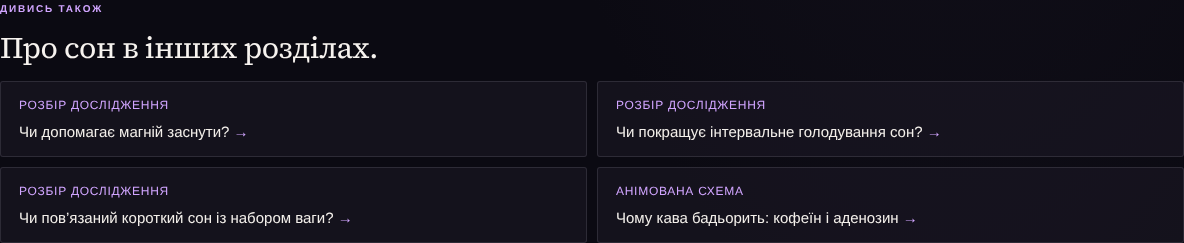
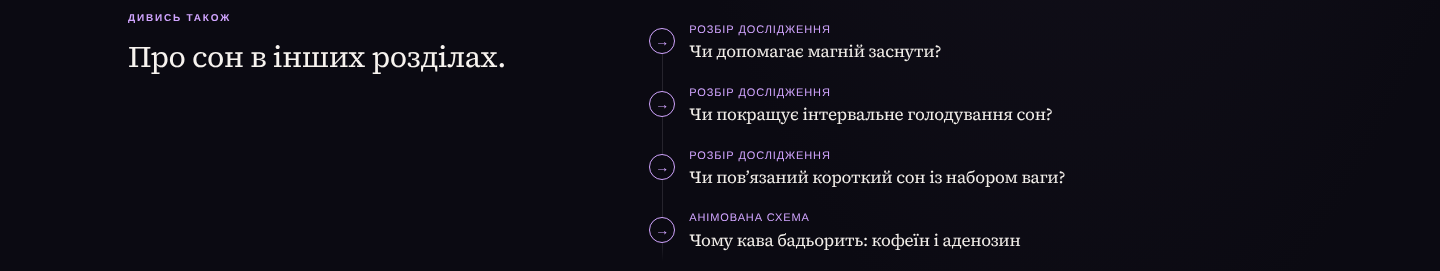
Документи: торкання схеми, «Дивись також» як рейка, виміри, знімки
docs/SLEEP-MOVEMENT-MODULES.md: що робить торкання рядка, чому схема сама не фокусується, нова оцінка
шаблонності й функціональності (схема й «Дивись також»), виміри після змін. CLAUDE.md: рядки схеми
натискні. Знімки: торкання N3 на телефоні, рейка «Дивись також» на телефоні й комп’ютері.

Claude-Session: https://claude.ai/code/session_01J29vQU3hAFNqfd2NxjB8zo

diff --git a/docs/SLEEP-MOVEMENT-MODULES.md b/docs/SLEEP-MOVEMENT-MODULES.md
@@ -39,14 +39,15 @@ Owner request: «Роби все що перечислив для правок»
 - Data and geometry: `src/sleep/night.mjs` (pure, no DOM; five cycles, 60 slots, 24 segments). The build (`scripts/build-platform.mjs`) renders the static markup between `<!-- EUA_SLEEP_NIGHT_START -->` and `<!-- EUA_SLEEP_NIGHT_END -->` in `dist/sleep.html`, so without JavaScript the scheme is visible, only without motion. `dist/sleep-night.js` is a generated copy; `dist/sleep.js` imports it with a version.
 - Motion (`src/sleep/page.mjs`, `mountNight`): a cursor passes the night in 30 s; one button «Пауза / Відтворити» (≥ 44 px). It starts by itself only when at least 35 % of the scheme is on the screen, stands still when off the screen or in a background tab, never overrides a person's pause or a chosen stage, and under `prefers-reduced-motion` starts paused so that only a person can run it. The label «На схемі зараз: …» has `aria-live="off"`; the chart has one text description (`role="img"` + `aria-label`).
 - Stage buttons answer to the scheme: choosing N1/N2/N3/REM pauses the cursor on the first bar of that stage, lights all bars of the stage and dims the rest; «Відтворити» removes the highlight. The first selection on load does not move the scheme.
+- **The rows are tappable (owner decision «3 так», 2026-11-09).** A tap on a row N1/N2/N3/REM (its label or the empty place of the row) acts as the stage button: the night pauses, the cursor stands on the first bar of the stage, the stage button is pressed and its explanation shows. A tap on a bar of that stage puts the cursor exactly there. The wake row has no explanation and does not react. The row is found from the height of the tap against the field of bars (five equal rows), so one listener covers labels, bars and gaps. A hand cursor and a hover highlight show it; the idle hint now reads «Обери рядок схеми чи кнопку стадії.». It is a quick pick beside the stage buttons (≥ 75 px), the same action: the scheme itself takes no focus and stays one image for a screen reader, the stage buttons are the keyboard way. Rows are 32 px on a phone (34–38 px wider), a shortcut, not the only control.
 - Colours: N1/N2/N3 are three steps of one hue (deeper = more saturated; opacity .48/.74/1), REM is cyan `#3cc8d8`, wake is the neutral label colour. Checked with the `dataviz` validator rules in both site palettes against the scheme background (cosmic `#1d1827`, green `#152a25`), for every pair of stages that stand next to each other in time. Categories (wake–N1, wake–N2, N2–REM, REM–N1): normal-vision ΔE ≥ 15 (measured 16.3–29.2), protan/deutan ΔE ≥ 8 (11.0–28.6). Neighbouring steps of the ramp (N1–N2, N2–N3): `validateOrdinal` passes (lightness steps ≥ 0.06, one hue), ΔE 13.5–14.3 (CVD 12.7–13.9). Every bar against the background ≥ 3:1 (WCAG 1.4.11: N1 3.0, N2 5.3, N3 8.5–8.7, REM 7.5–8.6, wake 8.9–9.1), label text ≥ 4.5. The first version failed this: wake at 55 % opacity was ΔE ≈ 10 from N1/N2, and N1 at 38 % opacity had contrast 2.4 (< 3), found by the accessibility review; both were raised. **Known deviation:** REM (L ≈ 0.77, as high as the top of the ramp, N3 0.79–0.82) is above the categorical lightness band (L ≤ 0.67 on dark); a darker cyan cannot keep ΔE ≥ 15 from N2 (search over L .62–.67 and 85 hues: best 14.7 / 7.9). It is one accent beside an ordinal ramp, not a categorical palette. The same maths runs in Browser QA on the real computed colours (`sleepNightFlow`).
 - Bars are 10–24 px tall, 4 px rounded; a bar starts where its segment starts (the QA flow compares the pixels with the data).
 
-**«Дивись також» (36).** One section after the habits, before the sources: four links to existing material, no new science text. Link text is copied word for word from the destination (three research-breakdown questions: magnesium, intermittent fasting, short sleep and weight; one animated scheme: «Чому кава бадьорить: кофеїн і аденозин»). `tests/sleep-related.test.mjs` compares each title with `dist/research-data.js` and `dist/mechanisms.html`, so a renamed breakdown cannot leave a stale link. Research links use the same `research.html#<id>` form as other pages (static anchor without JavaScript, the card is opened by `research-page.js`).
+**«Дивись також» (36, redrawn after «5 так»).** One section after the habits, before the sources: four links to existing material, no new science text. They are a rail like the habits (round arrow nodes joined by a hairline, serif titles, a small-caps label of the kind); on a computer the heading stands left and the rail right, on a phone one column; the arrow is decorative (empty text alternative) and the whole row is the link (≥ 62 px). The first version was a 2 × 2 grid of generic cards. Link text is copied word for word from the destination (three research-breakdown questions: magnesium, intermittent fasting, short sleep and weight; one animated scheme: «Чому кава бадьорить: кофеїн і аденозин»). `tests/sleep-related.test.mjs` compares each title with `dist/research-data.js` and `dist/mechanisms.html`, so a renamed breakdown cannot leave a stale link. Research links use the same `research.html#<id>` form as other pages (static anchor without JavaScript, the card is opened by `research-page.js`).
 
 **Small fixes (34).** The heading «Результат залежить від того, що саме вимірюють» lost its space on phones (`<br>` is hidden at ≤ 600 px; the space is now before the `<br>`, and a test forbids «,<br>» in headings). The three tiny links under the title (21 px tall: «Джерела й межі висновків», «Словник», «Про матеріал») are one 44 px button «Джерела й межі ↓» to the closing service block: the sources section is followed directly by «Про матеріал» with the glossary and the editorial rules, and the glossary still opens from the dotted terms in the text. This is a consolidation (one control for one action), not a removal of material; if separate hero links are wanted back, it is an owner decision. On computers the three wide chapter tiles became compact pills.
 
-**Phone density (37), measured.** Only spacing changes (the same texts and font sizes; a test forbids `font-size` in that block): section gaps 50 → 38 px, line height 1.9 → 1.7 in the evidence, basics and habit cards, tighter card padding, the related block as a 2 × 2 grid with a smaller heading, the scheme's pause button on the same row as its label. Page height measured in Chromium with the `<details>` collapsed:
+**Phone density (37), measured.** Only spacing changes (the same texts and font sizes; a test forbids `font-size` in that block): section gaps 50 → 38 px, line height 1.9 → 1.7 in the evidence, basics and habit cards, tighter card padding, the related block with a smaller heading (later redrawn as a rail), the scheme's pause button on the same row as its label. Page height measured in Chromium with the `<details>` collapsed:
 
 | Width | Before (main) | After | Of which the two new blocks |
 |---|---|---|---|
@@ -68,12 +69,14 @@ So the phone page is now 0.2 screen longer than before the upgrade, which is the
 
 | Element | Templateness | Functionality | Verdict |
 |---|---|---|---|
-| Night scheme | low: own drawing grown from the page's data, motion and cursor, the language of lines and bars | high: pause, a chosen stage stops it, keyboard, stills off screen and with reduced motion. Weak spot: the rows are not tappable (the text says «Обери стадію», the buttons are below the scheme) | keep; making the rows tappable is a pending owner decision |
+| Night scheme | low: own drawing grown from the page's data, motion and cursor, the language of lines and bars | high: pause, a chosen stage stops it, the rows are tappable (the text «Обери стадію» now works on the drawing too), keyboard through the stage buttons, stills off screen and with reduced motion | done after «3 так» |
 | Habit rows on a phone | was high (stock accordion with «＋»), now medium-low: the rail echoes the scheme | high on a phone (−0.4 screen), everything open on a computer; cost: up to four taps to read all four habits | rail built in this change |
-| «Дивись також» tiles | high: the generic «label + title + arrow» card grid | medium: plain navigation to existing material | pending owner decision (a rail-style list is possible) |
+| «Дивись також» | was high (generic «label + title + arrow» card grid), now medium-low: the rail again, serif titles, nodes | medium: plain navigation to existing material, rows ≥ 62 px | done after «5 так» |
 | Hero button «Джерела й межі ↓» | medium: an ordinary outlined button | high: one control instead of three tiny links | keep |
 
 Tests: `tests/sleep-habits.test.mjs` (markup and wording, fold/unfold, independent taps, breakpoint crossing both ways, no state left half open; each rule checked by breaking the code), Browser QA `sleepHabitsFlow` at 390, 360 and 1440 (row sizes, hidden texts, tap and keyboard, print, resizing both ways without a reload, chapter link, no JavaScript, no errors). Screenshots: `docs/screenshots/sleep-upgrade/habits-*.png`.
+
+**After «3 так» and «5 так» (tappable rows, related rail).** Page height in Chromium: 390 px 6223 → 6300 px (7.5 screens), 360 px 6364 → 6421 px, 1440 px 4862 → 4871 px. On a phone the page grew by about 77 px: the rail takes more height than the 2 × 2 tiles (57 px, three of four serif titles wrap to two lines) and the scheme rows were made 32 px for tapping (20 px). Screenshots: `docs/screenshots/sleep-upgrade/scheme-m390-tap-n3.png`, `after-*-related.png`. Tests: `tests/sleep-night-mount.test.mjs` (a tap acts as the stage button, every row picks its own stage, the wake row and taps outside the bars do nothing, a tap on a bar puts the cursor there, a collapsed scheme ignores taps; each rule was checked by breaking the code), `tests/sleep-related.test.mjs` (the rail CSS contract and the journal records); Browser QA `sleepNightFlow` taps the real rows and bars with the mouse and checks the node and hairline of the rail (288 checks at three widths; deliberate breakages are caught).
 
 **Accessibility review (WCAG 2.1 AA, `design:accessibility-review`, run in Chromium).** Found and fixed: the N1 bars had contrast 2.4:1 (< 3:1, SC 1.4.11), so the ramp became .48/.74/1 and the REM colour was re-tuned (see colours above); the decorative arrow of a related link was read as part of the link name, now it has an empty text alternative (`content: '…' / ''`, with a plain fallback). Checked and fine: a pause control for the moving cursor (SC 2.2.2) that is the first stop of the scheme, the scheme starts paused under `prefers-reduced-motion` and stands still off the screen; every control shows a 2 px focus ring and the tab order is hero button → chapters → term links → play/pause → stage buttons → … → related links; the scheme is a `figure` named by its caption with one `img` description, the moving label is `aria-live="off"`, the button's name changes between «Пауза» and «Відтворити»; no overflow at 320 px, nor at the site's larger text sizes (the site scales them with `zoom`); tap targets ≥ 44 px. Not tested: a real screen reader (VoiceOver, TalkBack, NVDA).
 

diff --git a/CLAUDE.md b/CLAUDE.md
@@ -52,7 +52,7 @@
 - Поле пошуку в героєві головної (T7, рішення D3): підказка «Знайти розбір або перевірити твердження» і текст порожнього результату беруться з одного місця (`SEARCH_PLACEHOLDER`, `EMPTY_RESULT_TEXT` у `src/platform/search.mjs`), кнопка зі словом «Знайти», без ознак чату. Пошук нічого не оцінює й не показує відповідей розборів, лише веде до сторінок; розбори шукаються окремою групою (рядки `study` з `dist/research-data.js` у `dist/platform-sections.js`). Рядок поля лишається 52 px: до 700 px довга підказка лягає на поле у два рядки (CSS), композиція героя не зсувається. Перевіряють `tests/claim-search.test.mjs` і `heroSearchFlow`, опис у `docs/HERO_SEARCH.md`.
 - Сторінка «Про проєкт» і спільне застереження (рішення власника «давай 1, 2, 3», 2026-11-03): `dist/about.html` має шість розділів з якорями `ab-*` і пише лише те, що можна перевірити за самим сайтом; імен, посад і кваліфікацій автора на ній немає, поки власник їх не надасть (нічого не вигадувати). Внизу кожної сторінки стоїть один рядок застереження «Матеріал освітній і не є персональною медичною рекомендацією.» з посиланням «Про проєкт»: текст лежить в одному місці, `src/platform/site-notice.mjs`, а збірка (`scripts/build-platform.mjs`) вставляє його в кожен `dist/*.html` перед кінцевими порожніми `<script>` (повторний запуск нічого не змінює; на нову сторінку застереження стане само). Стилі `dist/site-notice.css` без власних кольорів. Твердження сторінки прив’язані до коду тестом `tests/about-page.test.mjs`: коли на сайті з’явиться лічильник відвідувачів, форма Formspree, записаний науковий перегляд чи інша адреса хостингу, тест зупиняє збірку, доки не оновлено розділи «Приватність» і «Стан наукового перегляду». Опис і межі: `docs/ABOUT_AND_NOTICE.md`.
 - Жодних сторонніх запитів до явного кліку користувача. Жодної особистої пошти в коді.
-- Схема ночі на сторінці «Сон і відновлення» (рішення власника 34–37, 2026-11-09): дані й геометрія в `src/sleep/night.mjs` (чистий модуль без DOM), нерухому розмітку з нього вставляє збірка між позначками `EUA_SLEEP_NIGHT_START/END` у `dist/sleep.html`, а `dist/sleep-night.js` це згенерована копія (піднімати `?v=` в імпорті `sleep.js` у `scripts/build-platform.mjs`). Схема умовна: лише те, що вже сказано на сторінці за NIH/NHLBI (стадії чергуються, N3 зазвичай більше на початку ночі, REM ближче до ранку), без часів і чисел. Змінив дані чи кольори: збірка двічі, тести `sleep-night*` і QA `sleepNightFlow` перевіряють і дані, і різницю кольорів у двох палітрах. Правила кольору та вимір висоти: `docs/SLEEP-MOVEMENT-MODULES.md`.
+- Схема ночі на сторінці «Сон і відновлення» (рішення власника 34–37, 2026-11-09): дані й геометрія в `src/sleep/night.mjs` (чистий модуль без DOM), нерухому розмітку з нього вставляє збірка між позначками `EUA_SLEEP_NIGHT_START/END` у `dist/sleep.html`, а `dist/sleep-night.js` це згенерована копія (піднімати `?v=` в імпорті `sleep.js` у `scripts/build-platform.mjs`). Рядки N1…REM на схемі натискні (торкання = кнопка стадії, `show(id, at)` у `mountNight`; сама схема не фокусується, для клавіатури лишаються кнопки стадій). Схема умовна: лише те, що вже сказано на сторінці за NIH/NHLBI (стадії чергуються, N3 зазвичай більше на початку ночі, REM ближче до ранку), без часів і чисел. Змінив дані чи кольори: збірка двічі, тести `sleep-night*` і QA `sleepNightFlow` перевіряють і дані, і різницю кольорів у двох палітрах. Правила кольору та вимір висоти: `docs/SLEEP-MOVEMENT-MODULES.md`.
 - Картки звичок на сторінці «Сон» на телефоні (до 600 px) згортає JavaScript (`mountHabits` у `src/sleep/page.mjs`, рішення власника «1 так», 2026-11-09); вигляд «рейка» (вузли-кружки з номером із лічильника CSS, лінія між ними, шеврон), а не стандартний акордеон з плюсами (вимога про шаблонність): розмітка статична з `.habit-body` (слова не змінювати), без JavaScript, на комп’ютері й у друку все видно. Урок: на сайті діє загальне `[hidden]{display:none!important}`, тому щоб показати схований елемент у друку, правило мусить мати `!important`; а будь-яке «ховання» робити лише скриптом, не CSS, щоб без скрипта текст не пропадав.
 
 ## Безпека змісту
